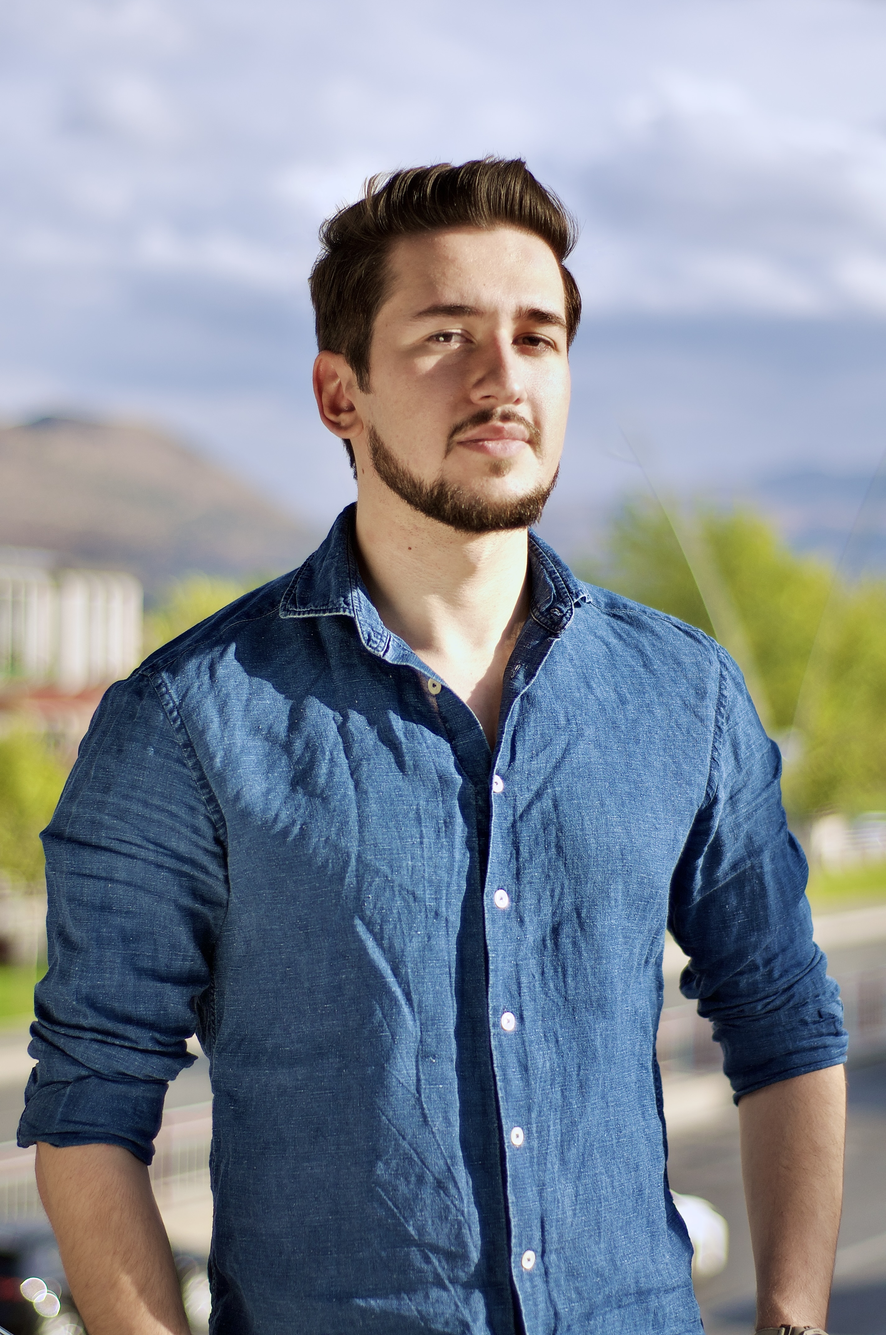
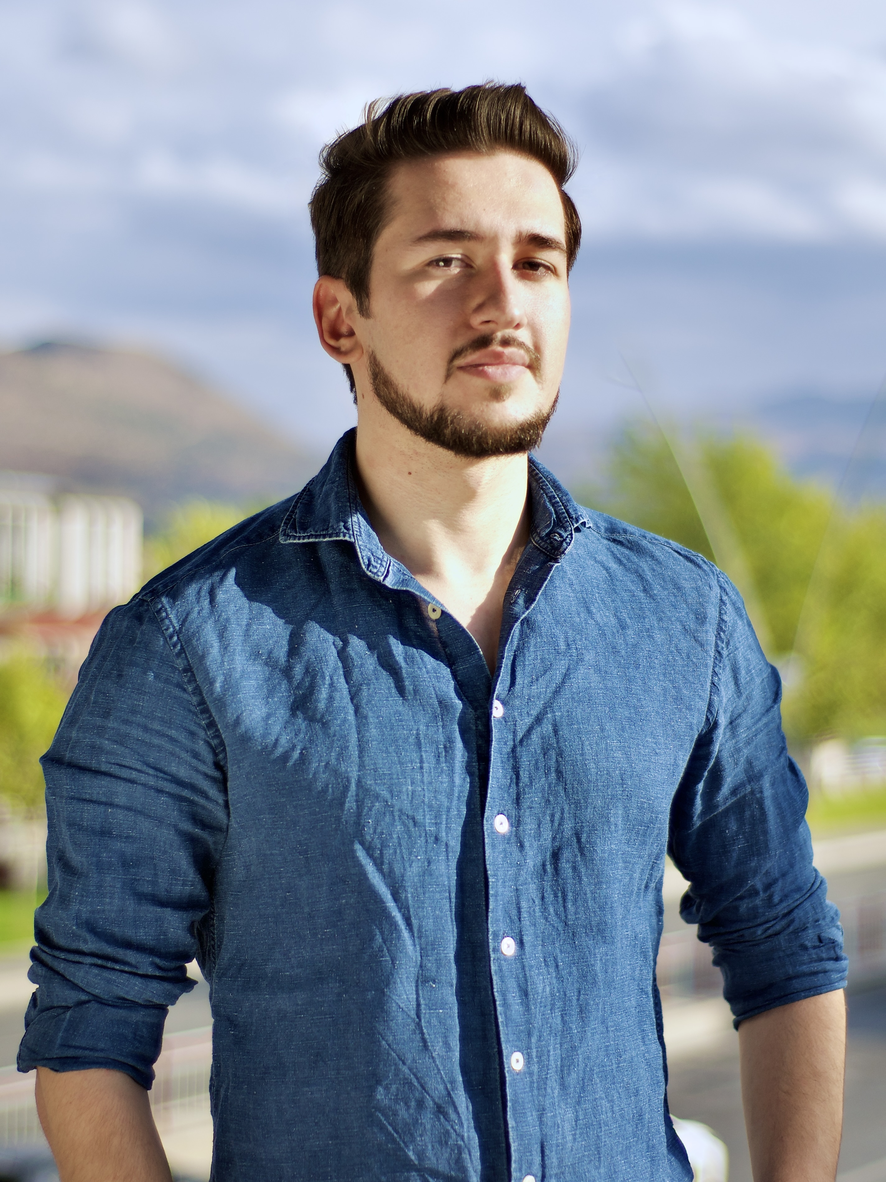
perf: hero pic different sources for mobile and desktop

diff --git a/src/lib/sections/Hero.svelte b/src/lib/sections/Hero.svelte
@@ -1,9 +1,17 @@
 <script lang="ts">
-	import heroPic from '$lib/assets/hero-pic-1400px.jpeg';
-	import heroPic1000 from '$lib/assets/hero-pic-1000px.jpeg';
-	import heroPic800 from '$lib/assets/hero-pic-800px.jpeg';
-	import heroPic600 from '$lib/assets/hero-pic-600px.jpeg';
-	import heroPic400 from '$lib/assets/hero-pic-400px.jpeg';
+	// Mobile versions (aspect ratio 1.175)
+	import heroPicMobile1400 from '$lib/assets/hero-pic-1400px-mobile.jpeg';
+	import heroPicMobile1000 from '$lib/assets/hero-pic-1000px-mobile.jpeg';
+	import heroPicMobile800 from '$lib/assets/hero-pic-800px-mobile.jpeg';
+	import heroPicMobile600 from '$lib/assets/hero-pic-600px-mobile.jpeg';
+	import heroPicMobile400 from '$lib/assets/hero-pic-400px-mobile.jpeg';
+
+	// Desktop versions (aspect ratio 3/4)
+	import heroPicDesktop1400 from '$lib/assets/hero-pic-1400px-desktop.jpeg';
+	import heroPicDesktop1000 from '$lib/assets/hero-pic-1000px-desktop.jpeg';
+	import heroPicDesktop800 from '$lib/assets/hero-pic-800px-desktop.jpeg';
+	import heroPicDesktop600 from '$lib/assets/hero-pic-600px-desktop.jpeg';
+	import heroPicDesktop400 from '$lib/assets/hero-pic-400px-desktop.jpeg';
 
 	import Icon from '@iconify/svelte';
 	import * as m from '$lib/paraglide/messages.js';
@@ -43,16 +51,29 @@
  					lg:row-end-11 xl:row-end-10 |
 					"
 	>
-		<img
-			class="h-full w-full object-[0%_15%] lg:object-center"
-			src={heroPic}
-			srcset={`${heroPic400} 400w, ${heroPic600} 600w, ${heroPic800} 800w, ${heroPic1000} 1000w, ${heroPic} 1400w`}
-			sizes="(max-width: 639px) 65vw, 42vw"
-			width="1400"
-			height="1942"
-			alt="Mete on a pedestrian bridge over a highway in a sunny day. Car traffic, green trees and mountains on the background."
-			fetchpriority="high"
-		/>
+		<picture>
+			<!-- Desktop versions (min-width: 640px) - aspect ratio 3/4 -->
+			<source
+				media="(min-width: 640px)"
+				srcset={`${heroPicDesktop400} 400w, ${heroPicDesktop600} 600w, ${heroPicDesktop800} 800w, ${heroPicDesktop1000} 1000w, ${heroPicDesktop1400} 1400w`}
+				sizes="42vw"
+			/>
+			<!-- Mobile versions (max-width: 639px) - aspect ratio 1.175 -->
+			<source
+				media="(max-width: 639px)"
+				srcset={`${heroPicMobile400} 400w, ${heroPicMobile600} 600w, ${heroPicMobile800} 800w, ${heroPicMobile1000} 1000w, ${heroPicMobile1400} 1400w`}
+				sizes="65vw"
+			/>
+			<!-- Fallback img -->
+			<img
+				class="h-full w-full object-center"
+				src={heroPicDesktop1400}
+				width="1400"
+				height="1867"
+				alt="Mete on a pedestrian bridge over a highway in a sunny day. Car traffic, green trees and mountains on the background."
+				fetchpriority="high"
+			/>
+		</picture>
 	</div>
 
 	<!-- Heading, Paragraph -->
